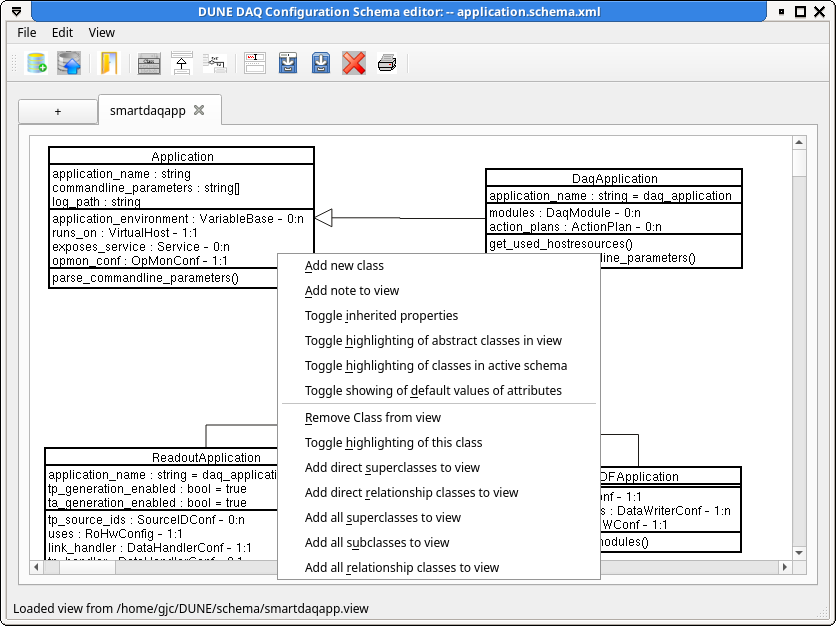
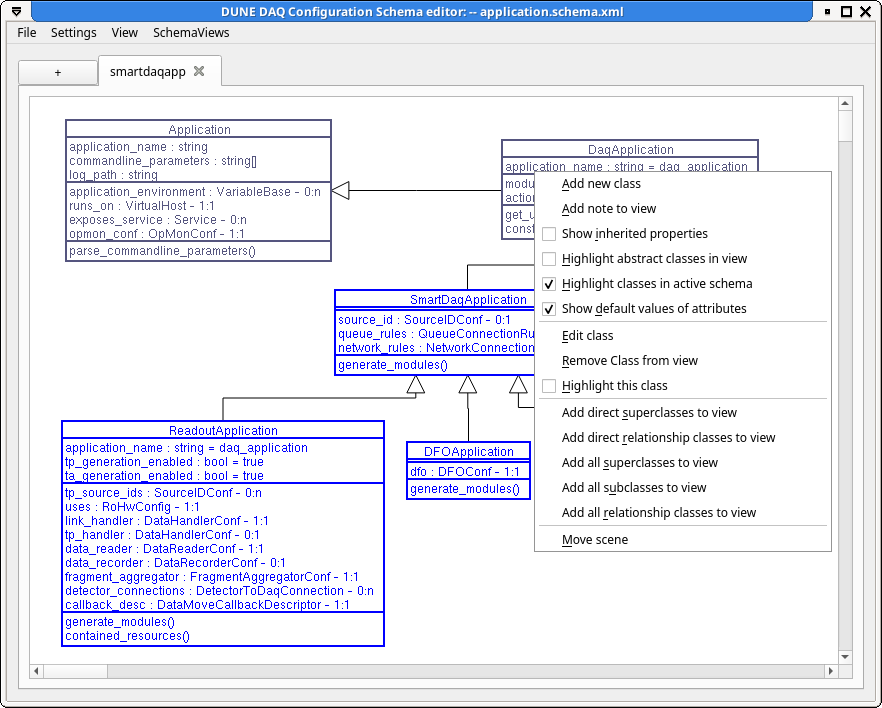
Update documentation

Changed region(s): [[0.0, 0.0, 1.0, 1.0]]

diff --git a/docs/schemaeditor.md b/docs/schemaeditor.md
@@ -17,7 +17,9 @@ function schemaeditor ()
 
 ```
 
-![schemaeditor main window](schemaeditor_main.png)
+
+
+
 
 ## Starting the editor
 
@@ -26,7 +28,30 @@ schemaeditor with no schema files loaded. You can then either open an
 existing schema file `File -> Open Schema` (or Ctrl+O) or create a
 new empty schema file with `File->Create new schema` (or Ctrl+N).
 
-To start with an existing schema file, use the `-f` option.
+To start with an existing schema file, use the `-f` option e.g. `schemaeditor -f schema/appmodel/application.schema.xml`
+
+
+## Structure of the editor
+
+![schemaeditor main window](schemaeditor_main.png)
+
+ The main window is initially split into 3 main parts, the `Class
+View` (1), the `SchemaView Tab area` (2) and the `Info Tabs` (3) with
+a menu bar and tool-bar at the top and a staus bar at the bottom. The
+`Class View` and the `Info Tabs` can be undocked and moved out of the
+main window. Each of the views can also be enabled or disabled from
+the `View` menu.
+
+After adjusting the layout, the current layout can be saved at any
+point by selecting the `Save layout` option from the `Settings`
+menu. You can also use this menu to restore the default layout or the
+last layout you saved.
+
+![schemaeditor preferences window](schema-preferences.png)
+
+The Settings menu also has a `Preferences` option which will open a
+window where you can set fonts colours and default options for schema
+view diagram tabs.
 
 ## Setting the 'Active' schema file
 
@@ -126,10 +151,14 @@ button next to the view tabs. A tab can be renamed by selecting the
 'Name View' button on the toolbar. Tabs can be closed by selecting the
 cross on the top corner of the tab or with the short cut Ctl-W.
 
+### Moving the diagram
+
+To move the whole digram, move the mouse pointer to the point you want the current origin to move to and select `Move scene` from the context menu.
+
 ### Highlighting classes
 
 Classes may be highlighted in different colors/fonts. The colors and
-fonts can be set from the `Color/font Settings` item on the `Edit`
+fonts can be set from the `Preferences` item on the `Settings`
 menu.
 
 #### Highlighting classes from the active schema file
@@ -155,11 +184,11 @@ attributes, relationships and methods.
 
 The current schema diagram can be saved from the 'Save View' or 'Save
 View as' buttons on the toolbar or printed via the 'Print View'
-button. These options also exist in the View menu along with an option
+button. These options also exist in the SchemaViews menu along with an option
 to export to an SVG file.
 
 Views can be loaded from files by using the Ctl-V short cut or
-selecting 'Load View' from the View menu. Views load into new tabs
+selecting 'Load View' from the SchemaViews menu. Views load into new tabs
 unless the current tab is empty.
 
 ### Notes
@@ -184,5 +213,6 @@ with plain text. Line breaks should be added by hand.
 | Ctl-V | Load View ||
 | Ctl-K | Save View ||
 | Ctl-E | Export View as SVG ||
+| Ctl-P | Print View ||
 | Ctl-W | Close View tab ||
 | Ctl-Q |  Quit  ||
